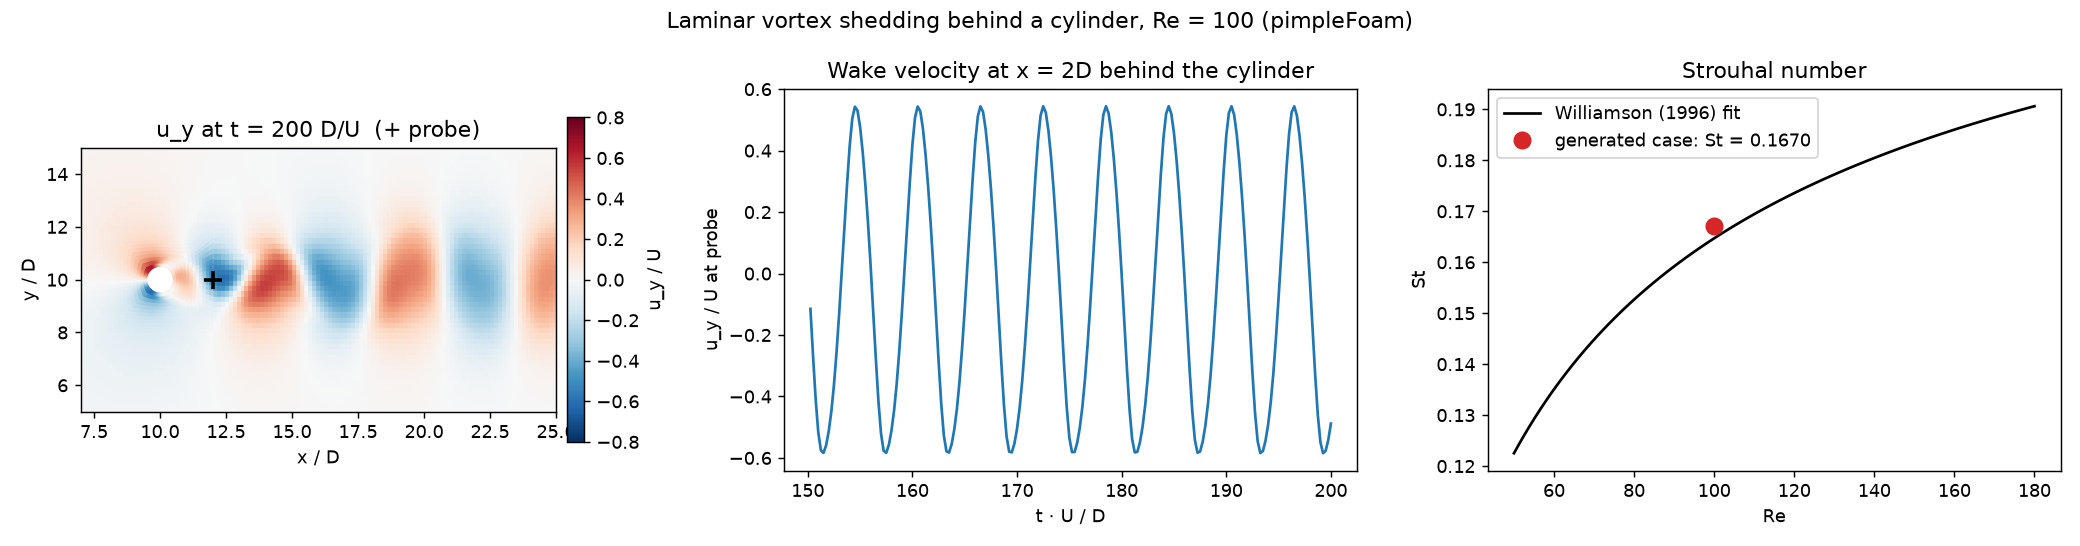
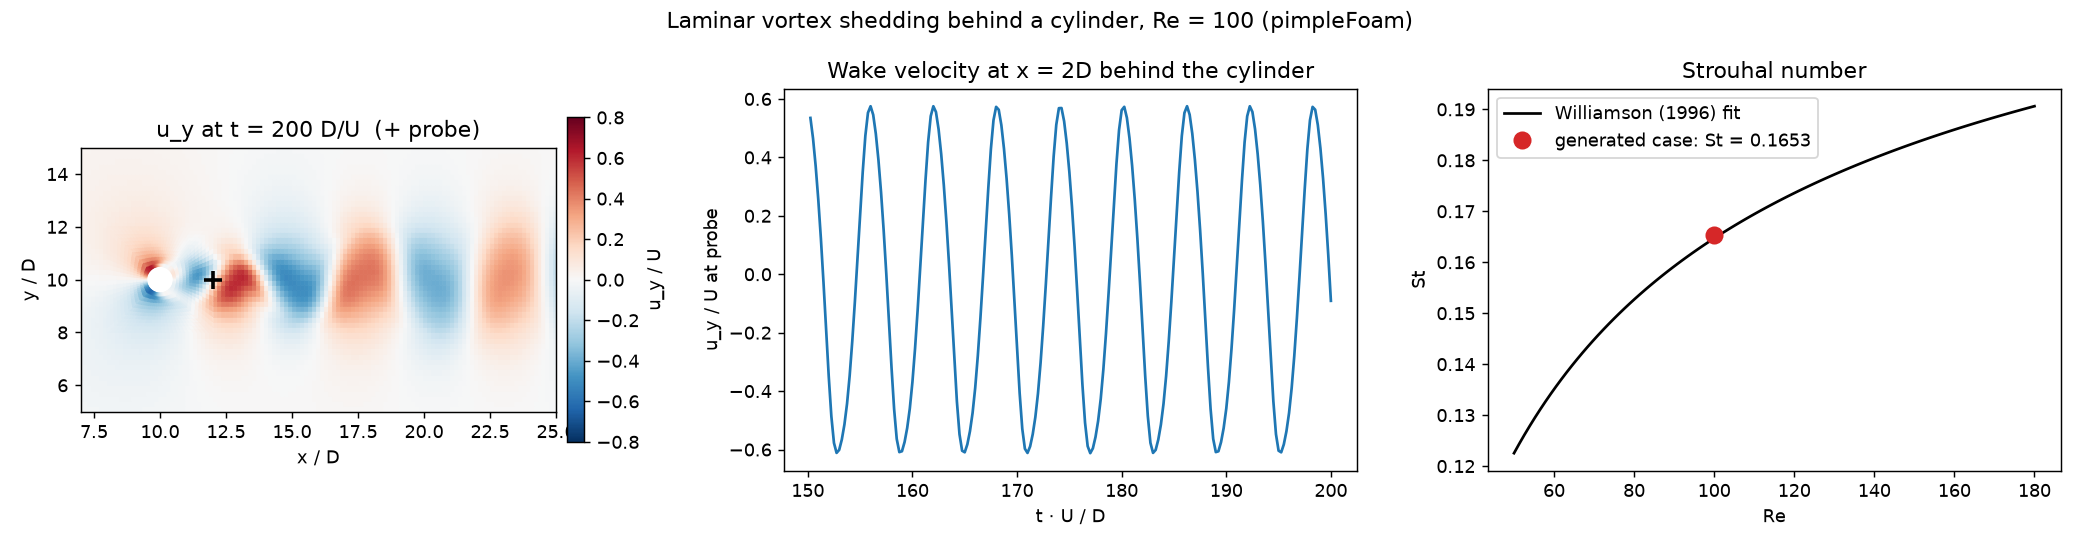
End-to-end benchmark and the fixes it found
evals/e2e.py runs every evaluation description from the model's cached answer
through sanitise -> generate -> run (rule-based repair agent) -> result review.
The first run (12/30 trustworthy) exposed:

- slow transient cases: dambreak used fixed 1 cm cells (80 000 cells for a
  1 m column, > 1 h); now at most 160 cells across (4.6 min). pimpleFoam now
  runs in PISO mode (1 outer corrector) with maxCo 0.8: cyl Re 100 went from
  > 20 min to ~6 min, and the validated Strouhal error from +1.42 % to +0.35 %
- Ra ignored: a stated Rayleigh number now sets the cavity size (Gemini made a
  1 m cavity at dT 50 K, Ra 5e9, for 'Ra = 1e5')
- channel wall cells too coarse at high Re (y+ ~600): cells added to reach the
  y+ target, aspect ratio capped at 500, explicit ny from the editor respected
- reviewer false alarms: residuals of ~zero velocity components (wedge Uz)
  ignored, mass balance needs >= 2 open boundaries, buoyant reference velocity,
  transient per-step residuals only warned above 0.1

diff --git a/evals/e2e.py b/evals/e2e.py
@@ -1,0 +1,148 @@
+"""
+End-to-end benchmark: from a plain-English description to a judged OpenFOAM result.
+
+For every description in the evaluation sets (20 dev + 10 held-out), the model's cached
+answer (evals/responses/, no API call) is sanitised, turned into a case, run with the
+rule-based repair agent, and judged by the result reviewer (app/review.py):
+
+    python -m evals.e2e                                   # gemini answers, all cases
+    python -m evals.e2e --responses ollama__qwen2.5-7b --only cyl_re100 cavity_re1000
+    python -m evals.e2e --report                          # rewrite the report from saved results
+
+Outcome per case: trustworthy / questionable / unreliable (the reviewer's verdict), or
+rejected (the sanitiser refused the answer), failed (did not run even after repairs),
+timeout. Results: docs/evaluation/e2e_results.json and e2e_results.md.
+"""
+
+from __future__ import annotations
+
+import argparse
+import json
+import sys
+import tempfile
+import time
+from concurrent.futures import ProcessPoolExecutor, as_completed
+from pathlib import Path
+
+ROOT = Path(__file__).resolve().parent
+REPO = ROOT.parent
+OUT = REPO / "docs" / "evaluation"
+RESULTS = OUT / "e2e_results.json"
+OUTCOMES = ("trustworthy", "questionable", "unreliable", "failed", "timeout", "rejected")
+
+
+def _cases() -> list[dict]:
+    out = []
+    for set_name, f in (("dev", "cases.json"), ("held-out", "cases_holdout.json")):
+        for c in json.loads((ROOT / f).read_text())["cases"]:
+            out.append({**c, "set": set_name})
+    return out
+
+
+def run_case(case: dict, raw: dict | None, workdir: str, timeout: int) -> dict:
+    """Sanitise → generate → run with the rule-based repair agent → review."""
+    import subprocess
+
+    from app.agent import repair
+    from app.generators import GENERATORS
+    from app.review import review, save_request
+    from app.sanitize import AnalysisError, sanitize_analysis
+
+    res = {"id": case["id"], "set": case["set"], "description": case["description"]}
+    if not isinstance(raw, dict):
+        return {**res, "outcome": "rejected", "issues": ["no usable answer from the model"]}
+    try:
+        a, _ = sanitize_analysis(raw, case["description"])
+    except AnalysisError as exc:
+        return {**res, "outcome": "rejected", "issues": [str(exc)]}
+    a["n_cores"] = 1                              # cases run side by side
+    res.update(solver=a["solver"], geometry=a["geometry_type"], turb=a["turb_model"])
+    case_dir = Path(workdir) / case["id"]
+    t0 = time.time()
+    try:
+        GENERATORS[a["solver"]]().generate(a, case_dir)
+        save_request(case_dir, a, case["description"])
+        r = repair(case_dir, backend=None, timeout=timeout, log=lambda s: None)
+    except subprocess.TimeoutExpired:
+        return {**res, "outcome": "timeout", "issues": [f"no result within {timeout} s"],
+                "seconds": round(time.time() - t0)}
+    except Exception as exc:                      # generator error: count it, keep going
+        return {**res, "outcome": "failed", "issues": [f"{type(exc).__name__}: {exc}"]}
+    res.update(fixes=[at.fixer for at in r.attempts], seconds=round(time.time() - t0))
+    if not r.success:
+        last = r.attempts[-1].diagnosis.message if r.attempts else "did not run"
+        return {**res, "outcome": "failed", "issues": [last[:200]]}
+    try:
+        rev = review(case_dir)
+    except Exception as exc:
+        return {**res, "outcome": "failed", "issues": [f"review error: {exc}"]}
+    return {**res, "outcome": rev.verdict,
+            "issues": [f"{c.name}: {c.message}" for c in rev.checks if c.status in ("warn", "fail")],
+            "facts": {k: rev.facts.get(k) for k in ("iterations", "Re", "Ma", "mass_imbalance", "y_plus")
+                      if rev.facts.get(k) is not None}}
+
+
+def report(results: dict) -> str:
+    lines = ["# End-to-end benchmark", "",
+             "From a plain-English description to a judged OpenFOAM result, with no human in the "
+             "loop: the model's answer is sanitised, generated, run with the rule-based repair "
+             "agent and judged by the [result reviewer](../GUIDE.md#result-review). "
+             "Re-run with `python -m evals.e2e`.", ""]
+    for key, rows in results.items():
+        rows = list(rows.values())
+        n = len(rows)
+        count = {o: sum(r["outcome"] == o for r in rows) for o in OUTCOMES}
+        lines += [f"## {key}", "",
+                  f"**{count['trustworthy']} of {n} descriptions give a trustworthy result** "
+                  f"({count['questionable']} questionable, {count['unreliable']} unreliable, "
+                  f"{count['failed'] + count['timeout']} did not run, {count['rejected']} rejected).", "",
+                  "| Outcome | Dev (20) | Held-out (10) |", "|---|---|---|"]
+        for o in OUTCOMES:
+            d = sum(r["outcome"] == o and r["set"] == "dev" for r in rows)
+            h = sum(r["outcome"] == o and r["set"] == "held-out" for r in rows)
+            if d or h:
+                lines.append(f"| {o} | {d} | {h} |")
+        lines += ["", "| Case | Set | Solver · geometry · model | Fixes | Outcome | Issues |",
+                  "|---|---|---|---|---|---|"]
+        for r in sorted(rows, key=lambda r: (OUTCOMES.index(r["outcome"]), r["id"])):
+            setup = " · ".join(r.get(k, "") for k in ("solver", "geometry", "turb") if r.get(k))
+            fixes = ", ".join(r.get("fixes") or []) or "–"
+            issues = "<br>".join(i.replace("|", "\\|") for i in r.get("issues") or []) or "–"
+            lines.append(f"| `{r['id']}` | {r['set']} | {setup} | {fixes} | **{r['outcome']}** | {issues} |")
+        lines.append("")
+    return "\n".join(lines)
+
+
+def main(argv: list[str] | None = None) -> int:
+    ap = argparse.ArgumentParser(description=__doc__, formatter_class=argparse.RawDescriptionHelpFormatter)
+    ap.add_argument("--responses", default="gemini__gemini-3.1-flash-lite",
+                    help="cached answers in evals/responses/ (file name without .json)")
+    ap.add_argument("--only", nargs="*", help="case ids")
+    ap.add_argument("--jobs", type=int, default=4, help="cases run in parallel")
+    ap.add_argument("--timeout", type=int, default=1200, help="seconds per OpenFOAM run")
+    ap.add_argument("--report", action="store_true", help="only rewrite the report")
+    args = ap.parse_args(argv)
+
+    results = json.loads(RESULTS.read_text()) if RESULTS.exists() else {}
+    if not args.report:
+        answers = json.loads((ROOT / "responses" / f"{args.responses}.json").read_text())["answers"]
+        cases = [c for c in _cases() if not args.only or c["id"] in args.only]
+        rows = results.setdefault(args.responses, {})
+        with tempfile.TemporaryDirectory() as tmp, ProcessPoolExecutor(args.jobs) as pool:
+            futs = {pool.submit(run_case, c, (answers.get(c["id"]) or {}).get("analysis"), tmp,
+                                args.timeout): c for c in cases}
+            for f in as_completed(futs):
+                r = f.result()
+                rows[r["id"]] = r
+                print(f"{r['id']:28s} {r['outcome']:12s} {'; '.join(r.get('issues') or [])[:150]}", flush=True)
+        OUT.mkdir(parents=True, exist_ok=True)
+        RESULTS.write_text(json.dumps(results, indent=1))
+    (OUT / "e2e_results.md").write_text(report(results))
+    for key, rows in results.items():
+        ok = sum(r["outcome"] == "trustworthy" for r in rows.values())
+        print(f"{key}: {ok}/{len(rows)} trustworthy")
+    return 0
+
+
+if __name__ == "__main__":
+    sys.exit(main())

diff --git a/app/review.py b/app/review.py
@@ -131,7 +131,7 @@ def review(case_dir: str | Path) -> Review:
     r.facts.update(solver=app, latest_time=float(t), cells=case.n_cells)
     transient = app in _TRANSIENT or bool(analysis.get("is_transient"))
 
-    _check_convergence(r, log, transient, parse_foam_log(log))
+    _check_convergence(r, log, transient, parse_foam_log(log), _idle_components(case, t))
     conv = r.checks[-1]
     if (not transient and conv.name == "Convergence" and conv.status in ("warn", "fail")
             and analysis.get("geometry_type") in ("cylinder", "rectangular_obstacle")):
@@ -140,13 +140,26 @@ def review(case_dir: str | Path) -> Review:
     inlet_speed = _check_request(r, case, analysis, description, case_dir)
     _check_mass(r, case, t)
     _check_yplus(r, case, t, analysis, case_dir)
-    _check_fields(r, case, t, inlet_speed or analysis.get("characteristic_velocity"))
+    u_ref = inlet_speed or _buoyant_velocity(case, t, analysis) or analysis.get("characteristic_velocity")
+    _check_fields(r, case, t, u_ref)
     return r
 
 
-def _check_convergence(r: Review, log: str, transient: bool, parsed: dict) -> None:
+def _idle_components(case, t: str) -> set[str]:
+    """Velocity components that are ~0 everywhere (e.g. Uz on a wedge): their normalised
+    residuals are noise and say nothing about convergence."""
+    try:
+        U = np.atleast_2d(case.field("U", t))
+    except Exception:
+        return set()
+    scale = float(np.abs(U).max()) or 1.0
+    return {f"U{c}" for i, c in enumerate("xyz") if float(np.abs(U[:, i]).max()) < 1e-3 * scale}
+
+
+def _check_convergence(r: Review, log: str, transient: bool, parsed: dict,
+                       idle: set[str] = frozenset()) -> None:
     finished = bool(re.search(r"^End\s*$", log, re.M))
-    final = {f: v[-1] for f, v in parsed["residuals"].items() if v}
+    final = {f: v[-1] for f, v in parsed["residuals"].items() if v and f not in idle}
     n_steps = len(parsed["times"]) or parsed["n_iters"]
     r.facts.update(iterations=n_steps,
                    final_residuals={f: float(f"{v:.3g}") for f, v in final.items()})
@@ -166,8 +179,11 @@ def _check_convergence(r: Review, log: str, transient: bool, parsed: dict) -> No
         else:
             r.add("Time step", "pass", f"Final Courant number {co:.2g}." if co is not None else
                   "Courant number not reported.")
-        r.add("Convergence", "pass" if worst < 1e-2 else "warn",
-              f"Transient run finished; largest final initial residual {worst_f} = {worst:.2g}.")
+        # Per-step initial residuals measure the change over a step (large in vortex shedding),
+        # not convergence; above ~0.1 they signal a time step that is too large.
+        r.add("Convergence", "pass" if worst < 0.1 else "warn",
+              f"Transient run finished; largest initial residual in the last step {worst_f} = {worst:.2g}"
+              + ("." if worst < 0.1 else ": the time step is probably too large (lower maxCo)."))
         return
     if re.search(r"solution converged in", log):
         r.add("Convergence", "pass", f"Steady solution converged in {n_steps} iterations "
@@ -245,14 +261,24 @@ def _patch_type(case_dir: Path, patch: str) -> str:
     return m.group(1) if m else ""
 
 
+def _buoyant_velocity(case, t: str, analysis: dict) -> float | None:
+    """Free-fall velocity sqrt(g·ΔT/T·L) for natural convection (no inflow to compare with)."""
+    if not (case.path / t / "T").exists():
+        return None
+    T = np.asarray(case.field("T", t), dtype=float)
+    L = float(analysis.get("characteristic_length") or 0) or float(np.ptp(case.points[:, 1]))
+    dT, Tm = float(np.ptp(T)), float(T.mean())
+    return math.sqrt(9.81 * dT / Tm * L) if dT > 0 and Tm > 0 else None
+
+
 def _check_mass(r: Review, case, t: str) -> None:
     open_patches = [p for p, b in case.boundary.items() if b["type"] == "patch" and b["nFaces"]]
     if not (case.path / t / "phi").exists() or not open_patches:
         return
     flux = {p: float(np.sum(case.patch_field("phi", t, p))) for p in open_patches}
     inflow = -sum(min(f, 0.0) for f in flux.values())
-    if inflow <= 0:
-        return
+    if inflow <= 0 or len(open_patches) < 2:
+        return             # no through-flow (e.g. a closed tank venting to the atmosphere)
     imbalance = abs(sum(flux.values())) / inflow
     r.facts["mass_imbalance"] = float(f"{imbalance:.3g}")
     msg = f"Net flux through the open boundaries is {imbalance:.2%} of the inflow."

diff --git a/app/sanitize.py b/app/sanitize.py
@@ -194,6 +194,8 @@ def sanitize_analysis(analysis: Any, description: str | None = None) -> tuple[di
 
     # ── Reynolds number: consistent with U·L/ν and with the user's request ───
     a["Re"] = _consistent_reynolds(a, solver, char_len, nu, description, notes)
+    if solver == "buoyantSimpleFoam":
+        _consistent_rayleigh(a, description, nu, notes)
 
     # ── Flow model must match the regime (only where Re leaves no doubt) ─────
     if a["solver"] in _INCOMPRESSIBLE + ("rhoSimpleFoam",) and a["Re"] is not None:
@@ -240,14 +242,16 @@ _TURBULENT_ABOVE = 10_000.0
 _INCOMPRESSIBLE = ("simpleFoam", "pimpleFoam")
 
 _SUPERSCRIPT = str.maketrans("⁰¹²³⁴⁵⁶⁷⁸⁹⁻", "0123456789-")
-_RE_PATTERN = re.compile(
-    r"\b(?:Re(?:_\w+)?|Reynolds(?:\s+number)?)\s*(?:=|≈|~|:|of|is|at)?\s*"
+_NUMBER_AFTER = (
+    r"\s*(?:=|≈|~|:|of|is|at)?\s*"
     r"(?P<num>\d[\d,]*(?:\.\d+)?)"
     r"(?:\s*[eE](?P<exp>[-+]?\d+))?"                                   # 1e6
     r"(?:\s*(?:\^|\*\*)\s*(?P<pow>[-+]?\d+)|(?P<sup>[⁰¹²³⁴⁵⁶⁷⁸⁹⁻]+))?"   # 10^5, 10⁵
     r"(?:\s*[x×*]\s*10\s*(?:(?:\^|\*\*)\s*(?P<pow10>[-+]?\d+)|(?P<sup10>[⁰¹²³⁴⁵⁶⁷⁸⁹⁻]+)))?"  # 2 × 10⁶
     r"(?:\s*(?P<word>million|thousand|billion|[kKM])\b)?"            # 2 million, 50k
 )
+_RE_PATTERN = re.compile(r"\b(?:Re(?:_\w+)?|Reynolds(?:\s+number)?)" + _NUMBER_AFTER)
+_RA_PATTERN = re.compile(r"\b(?:Ra|Rayleigh(?:\s+number)?)" + _NUMBER_AFTER)
 _WORDS = {"thousand": 1e3, "k": 1e3, "K": 1e3, "million": 1e6, "M": 1e6, "billion": 1e9}
 
 
@@ -296,9 +300,43 @@ def _consistent_mach(a: dict, solver: str, description: str | None, notes: list[
 def stated_reynolds(description: str | None) -> float | None:
     """Reynolds number written in the user's description, e.g. "Re = 100", "Reynolds number
     of 2,000", "Re = 2 million", "Re = 5e5", "Re = 10^5", "Re = 2 × 10⁶"."""
+    return _stated_number(_RE_PATTERN, description)
+
+
+def stated_rayleigh(description: str | None) -> float | None:
+    """Rayleigh number written in the description ("Ra = 1e5", "Rayleigh number of 10^6")."""
+    return _stated_number(_RA_PATTERN, description)
+
+
+def _consistent_rayleigh(a: dict, description: str | None, nu: float, notes: list[str]) -> None:
+    """Natural convection: a stated Ra sets the cavity size (the temperatures are kept).
+    Models picked e.g. a 1 m cavity with ΔT = 50 K for "Ra = 1e5", which is Ra ≈ 5e9."""
+    ra_user = stated_rayleigh(description)
+    if not ra_user:
+        return
+    from app.generators.buoyant_simple_foam import BuoyantSimpleFoamGenerator
+    T_hot, T_cold, T_mean = BuoyantSimpleFoamGenerator._extract_temperatures(a)
+    dT = abs(T_hot - T_cold)
+    if dT <= 0 or nu <= 0:
+        return
+    alpha = nu / 0.71                                   # thermal diffusivity of air, Pr = 0.71
+    L = _to_float(a.get("characteristic_length")) or 1.0
+    ra = 9.81 / T_mean * dT * L ** 3 / (nu * alpha)
+    if abs(ra / ra_user - 1) <= _RE_TOLERANCE:
+        return
+    L_new = (ra_user * nu * alpha * T_mean / (9.81 * dT)) ** (1.0 / 3.0)
+    notes.append(f"The description asks for Ra = {ra_user:g} but a {L:.3g} m cavity with ΔT = {dT:g} K "
+                 f"gives Ra = {ra:.3g} — cavity size set to {L_new:.4g} m.")
+    a["characteristic_length"] = round(L_new, 6)
+    for key in ("channel_length", "channel_height"):
+        if isinstance(a.get("geometry_params"), dict):
+            a["geometry_params"].pop(key, None)
+
+
+def _stated_number(pattern: re.Pattern, description: str | None) -> float | None:
     if not description:
         return None
-    m = _RE_PATTERN.search(description)
+    m = pattern.search(description)
     if not m:
         return None
     value = _to_float(m.group("num").replace(",", ""))

diff --git a/app/generators/base.py b/app/generators/base.py
@@ -592,6 +592,7 @@ class BaseCaseGenerator(ABC):
             domain_y = _positive("domain_y", float, domain_y)
             nx = _positive("nx", int, nx)
             ny = _positive("ny", int, ny)
+            ctx["_ny_user"] = mesh.get("ny") is not None
 
         try:
             refine = float(mesh.get("refinement") or 1.0)
@@ -648,6 +649,14 @@ class BaseCaseGenerator(ABC):
         nx          = int(ctx.get("nx", 100))
 
         y1 = _wall_y1(Re, inlet_speed, nu, turb)
+        if ctx.get("geometry_type") == "channel" and not ctx.get("_ny_user"):
+            # …but never wall cells over 500× longer than high (checkMesh fails above 1000):
+            # at Re ~1e7 the y⁺ target gave aspect ratios of 6000.
+            y1 = max(y1, domain_x / max(nx, 1) / 500.0)
+            # Walls at both y ends: at high Re the default count cannot reach the y⁺
+            # target at the capped growth rate (a 200 m/s duct gave y⁺ ≈ 600).
+            ny = 2 * _cells_to_reach(domain_y / 2, y1, base=(ny + 1) // 2, cap=60)
+            ctx["ny"] = ny
 
         ctx["_y1_target"]      = y1
         ctx["grading_y_floor"] = _floor_grading_str(domain_y, ny, y1)

diff --git a/app/generators/inter_foam.py b/app/generators/inter_foam.py
@@ -66,9 +66,11 @@ class InterFoamGenerator(BaseCaseGenerator):
         domain_y = round(max(char_len * 2.0, 0.4), 4)
         domain_z = round(0.05, 4)  # thin 2D slab
 
-        # Cell count aiming for ~dx ≈ domain_x/100
-        nx = max(100, int(domain_x / 0.01))
-        ny = max(40,  int(domain_y / 0.01))
+        # 1 cm cells, but at most 160 across the basin: fixed 1 cm cells gave 80 000
+        # cells for a 1 m column (4 m basin) and runs over an hour. The OpenFOAM
+        # damBreak tutorial uses ~2 300 cells (its finer variant ~9 000).
+        nx = min(160, max(100, int(domain_x / 0.01)))
+        ny = max(40, round(nx * domain_y / domain_x))
         nz = 1
         domain_x, domain_y, nx, ny = self._mesh_overrides(ctx, analysis, domain_x, domain_y, nx, ny)
 

diff --git a/docs/validation/results.md b/docs/validation/results.md
@@ -15,7 +15,7 @@ with its own `Allrun`, and post-processed in Python (`app/postprocess`).
 | Natural convection in a square cavity, Ra = 10⁵ | Average Nusselt number (hot wall) | 4.506 | 4.519 | -0.30 % | ±3 % | ✅ |
 | Natural convection in a square cavity, Ra = 10⁵ | Max u on vertical centreline · L/α | 34.84 | 34.73 | +0.33 % | ±5 % | ✅ |
 | Natural convection in a square cavity, Ra = 10⁵ | Max v on horizontal centreline · L/α | 68.57 | 68.59 | -0.03 % | ±5 % | ✅ |
-| Vortex shedding behind a circular cylinder, Re = 100 | Strouhal number St = fD/U (7 periods) | 0.167 | 0.1647 | +1.42 % | ±5 % | ✅ |
+| Vortex shedding behind a circular cylinder, Re = 100 | Strouhal number St = fD/U (7 periods) | 0.1653 | 0.1647 | +0.35 % | ±5 % | ✅ |
 | Turbulent backward-facing step (Driver & Seegmiller) | Reattachment length x_r / H (k-ω SST) | 5.961 | 6.26 | -4.78 % | ±10 % | ✅ |
 
 ## Plane Poiseuille flow (laminar channel)
@@ -50,7 +50,7 @@ with its own `Allrun`, and post-processed in Python (`app/postprocess`).
 
 > Laminar flow past a 2-D circular cylinder at Re = 100 (D = 1 m, U = 1 m/s, ν = 0.01 m²/s), in a domain 30 D long and 20 D high with the cylinder 10 D from the inlet. Transient; measure the vortex-shedding frequency.
 
-- **Solver:** `pimpleFoam` · **cells:** 20,588 · **run time:** 408 s
+- **Solver:** `pimpleFoam` · **cells:** 20,588 · **run time:** 163 s
 - **Reference:** Williamson, Annu. Rev. Fluid Mech. 28 (1996): St = 0.2665 − 1.018/√Re
 - **Notes:** Symmetry planes 10 D above and below the cylinder (5 % blockage) raise St slightly compared with an unbounded flow. The period is measured from zero crossings of u_y at a probe 2 D behind the cylinder.
 
